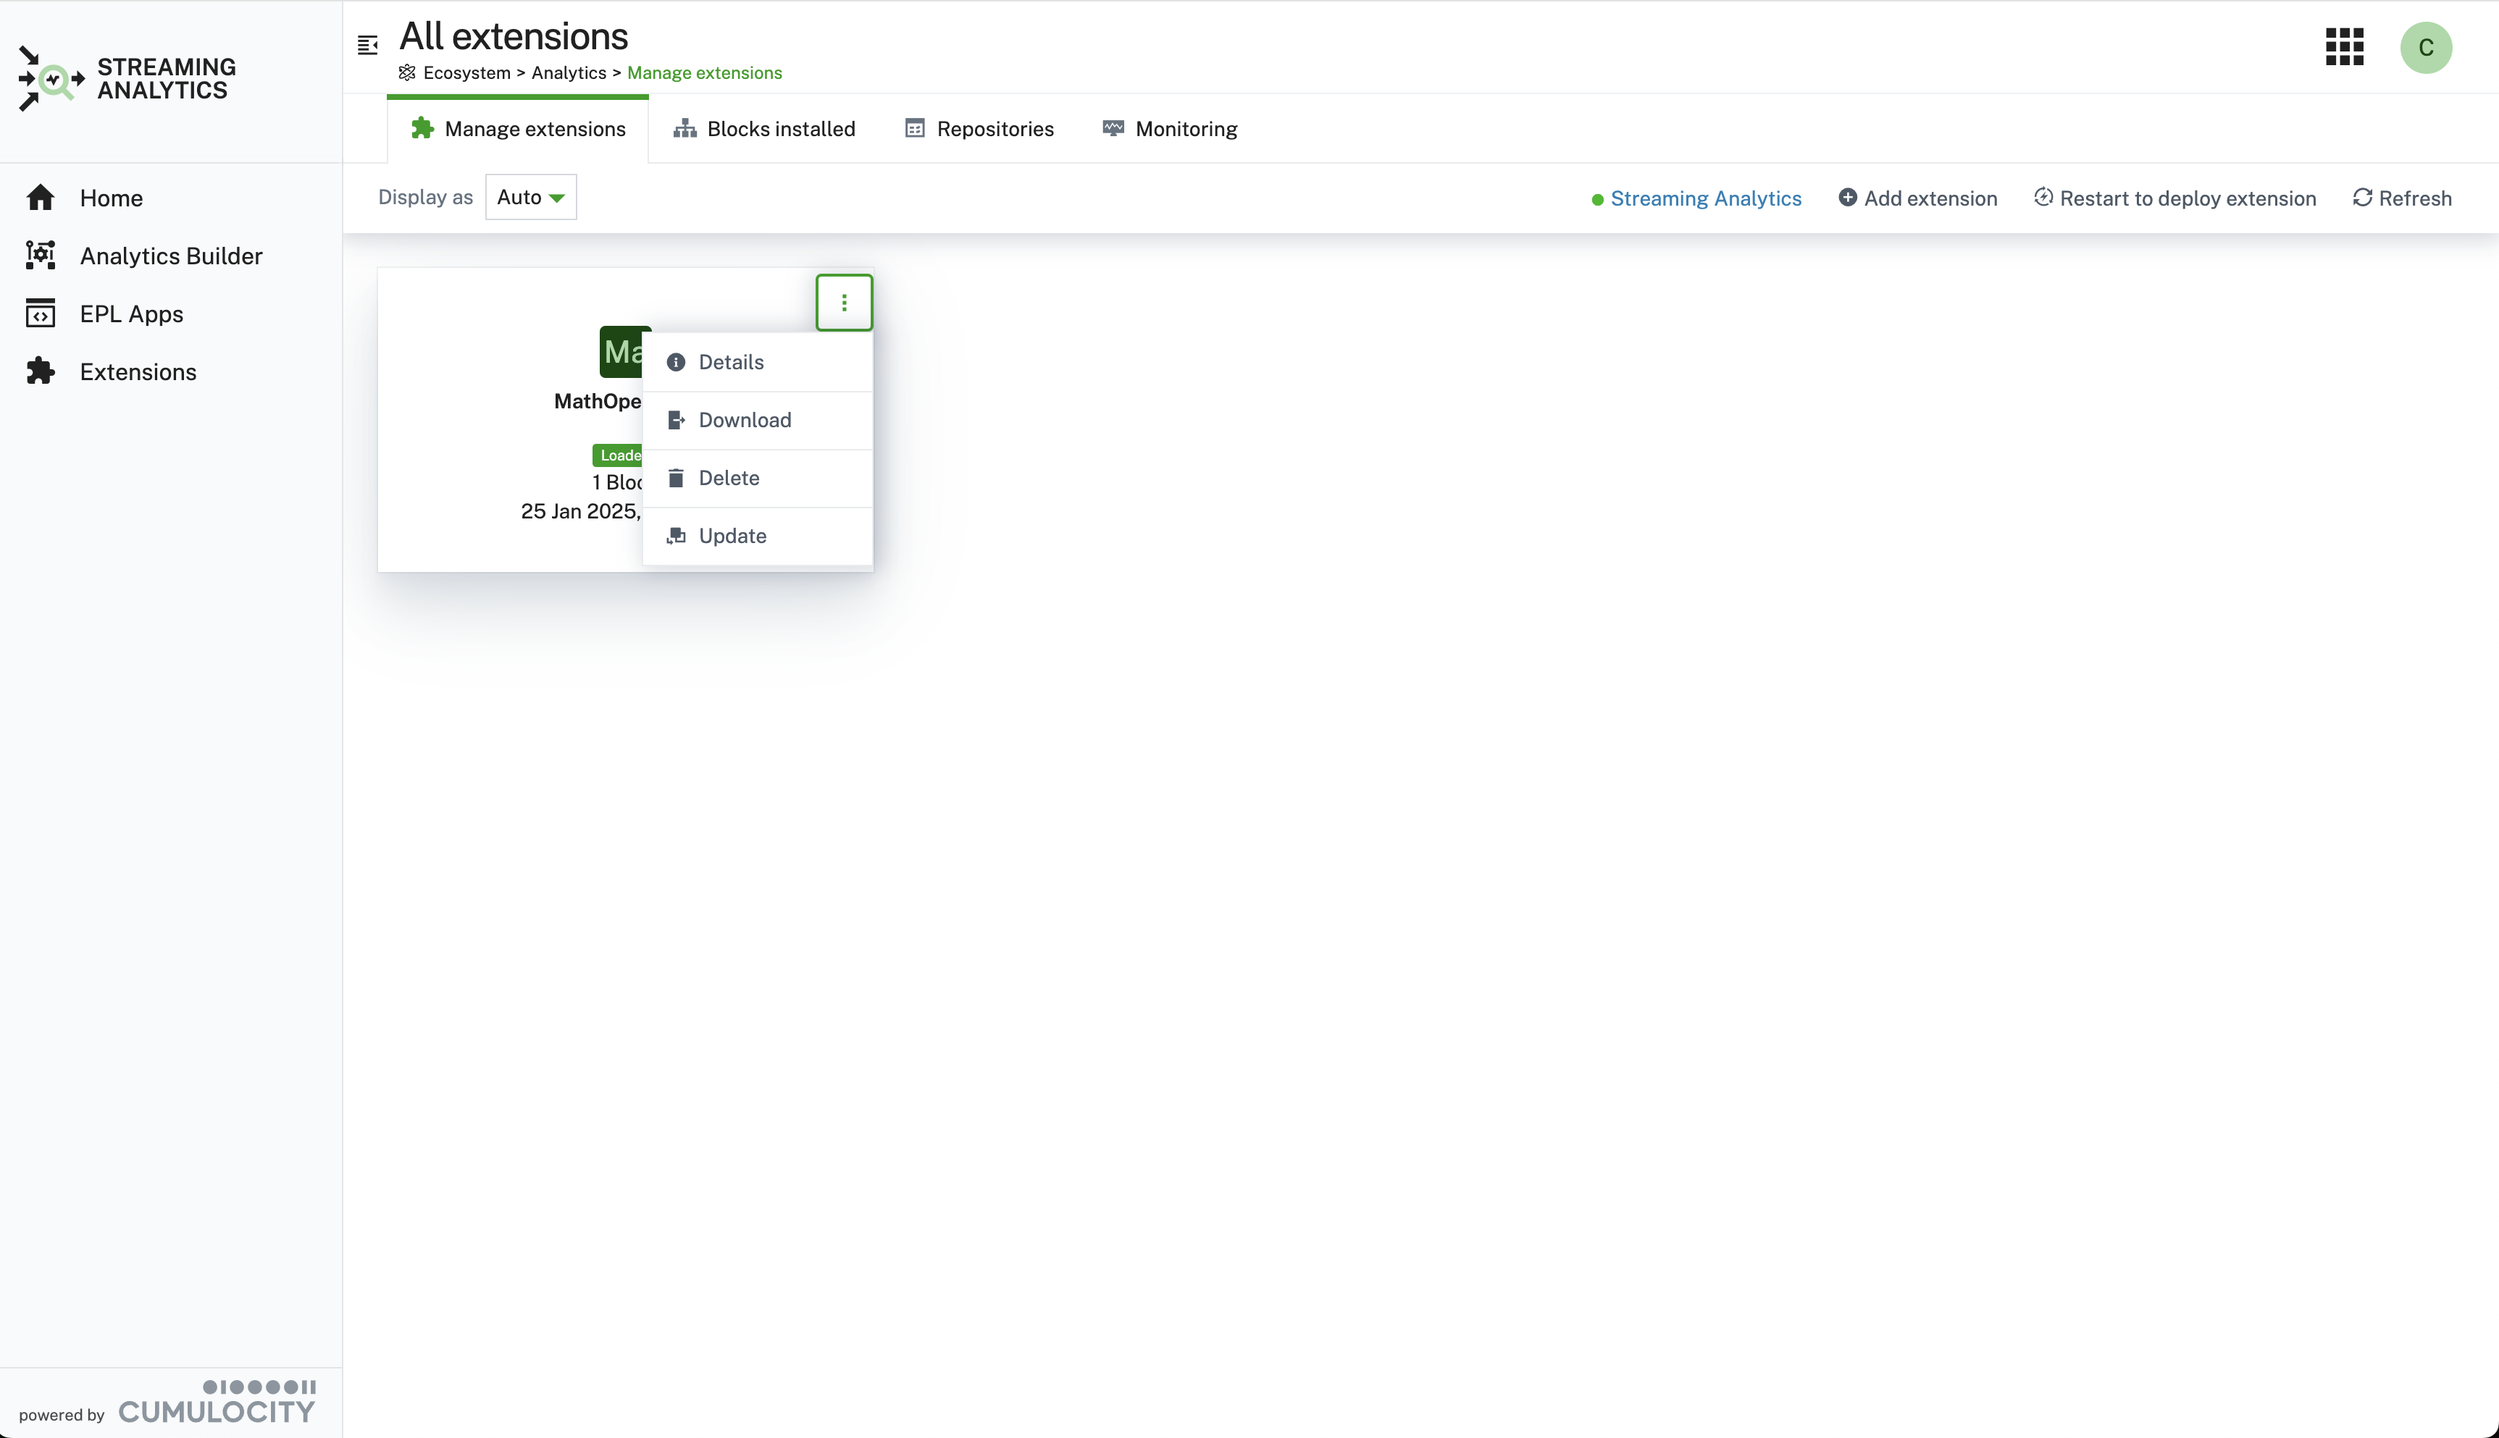
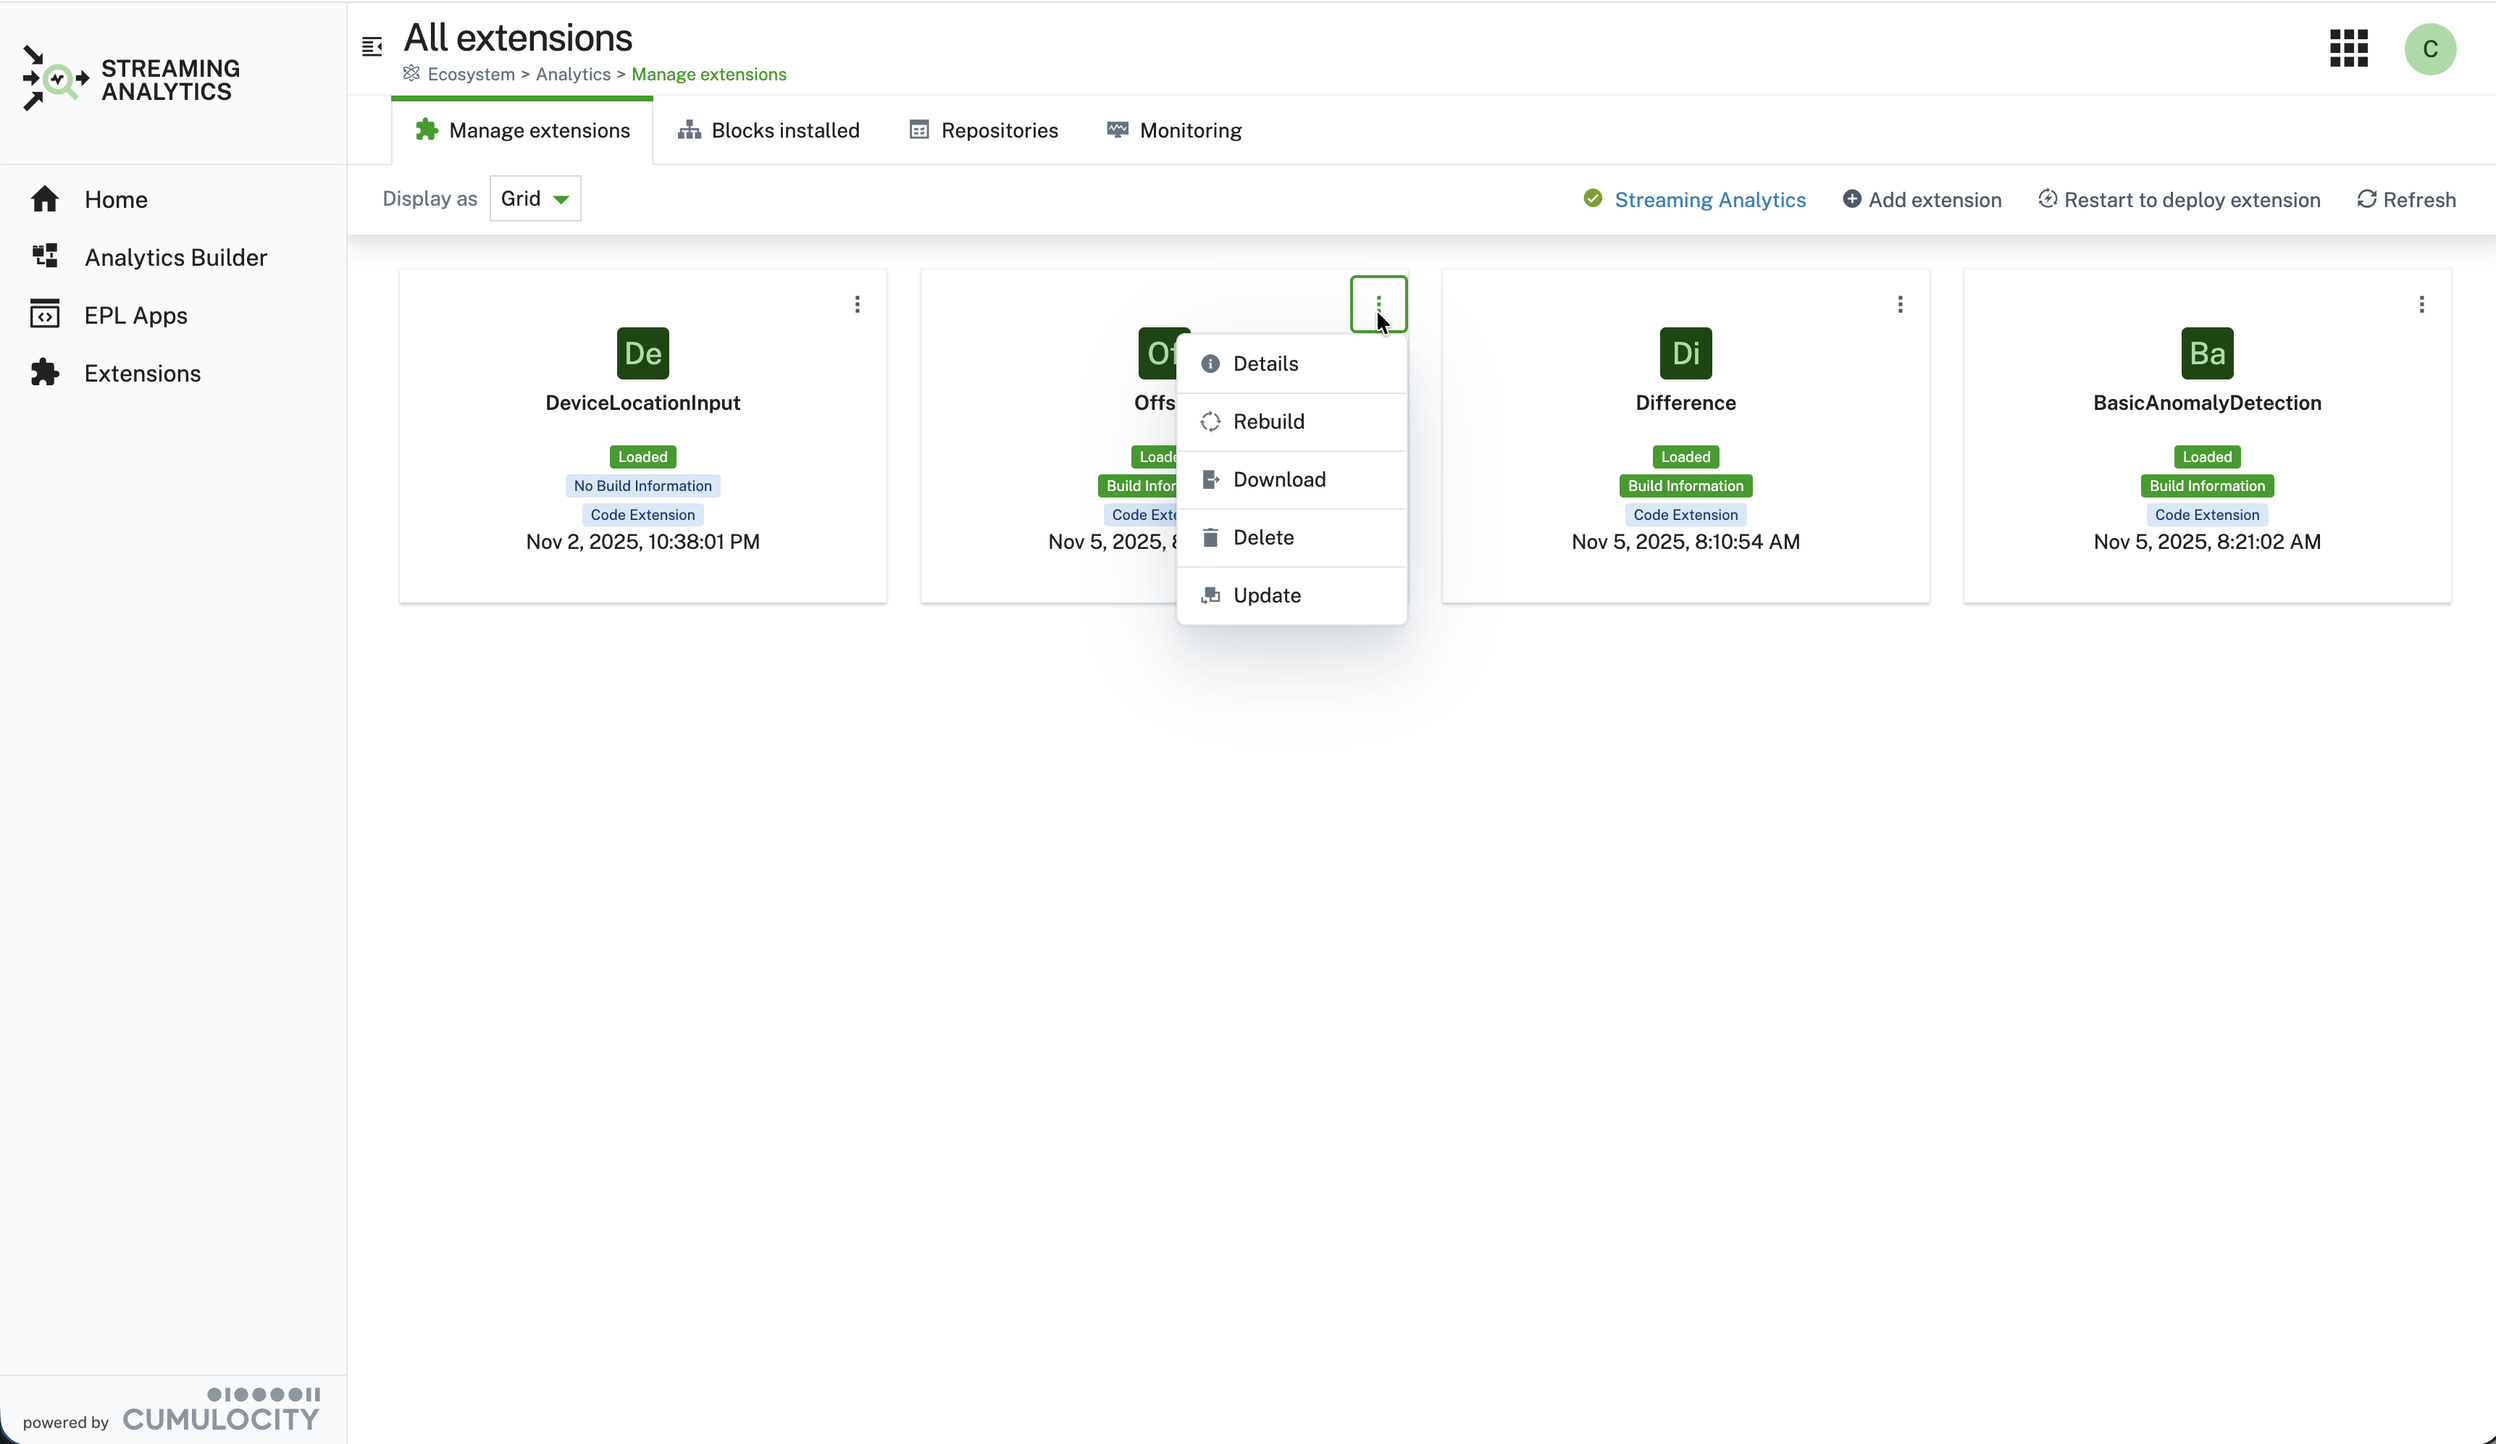
add documentation on build information

diff --git a/README.md b/README.md
@@ -90,6 +90,10 @@ The modal dialog provides the option:
 
 ![Create extension](resources/images/extension-create-extension-modal.png)
 
+If an extension is build using the backend additional build information it added to this extension. IN this case the extension can be rebuild from the same repository.
+
+![Build information](resources/images/extension-manage-build-information.png)
+
 ## Monitoring
 
 On the monitoring tab you can view the latest alarms and events for the Streaming Analytics Engine. This is especially helpful if after an upload of a new extension no extension is loaded. 
